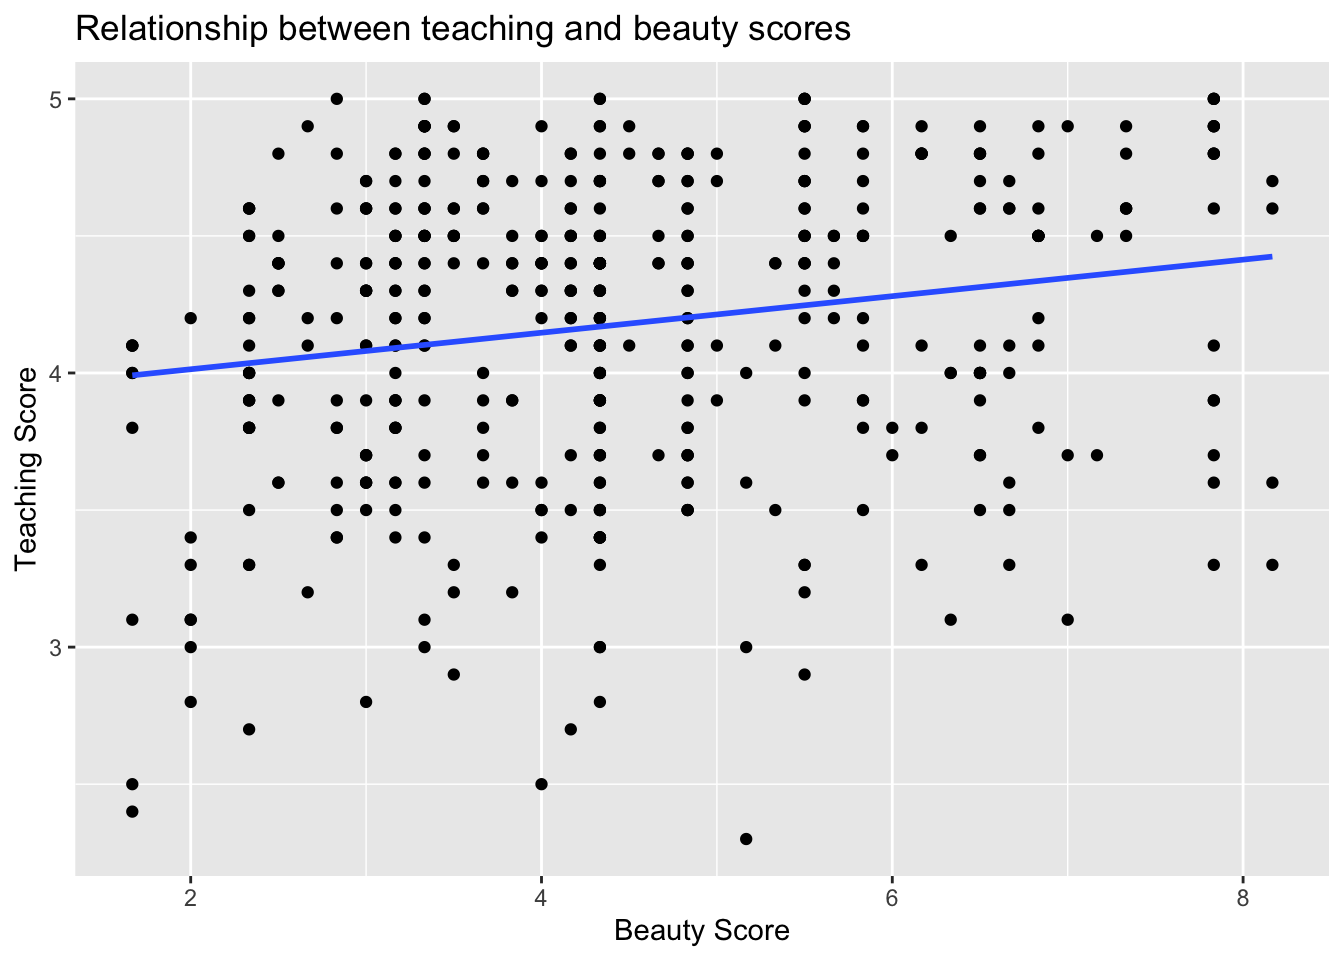
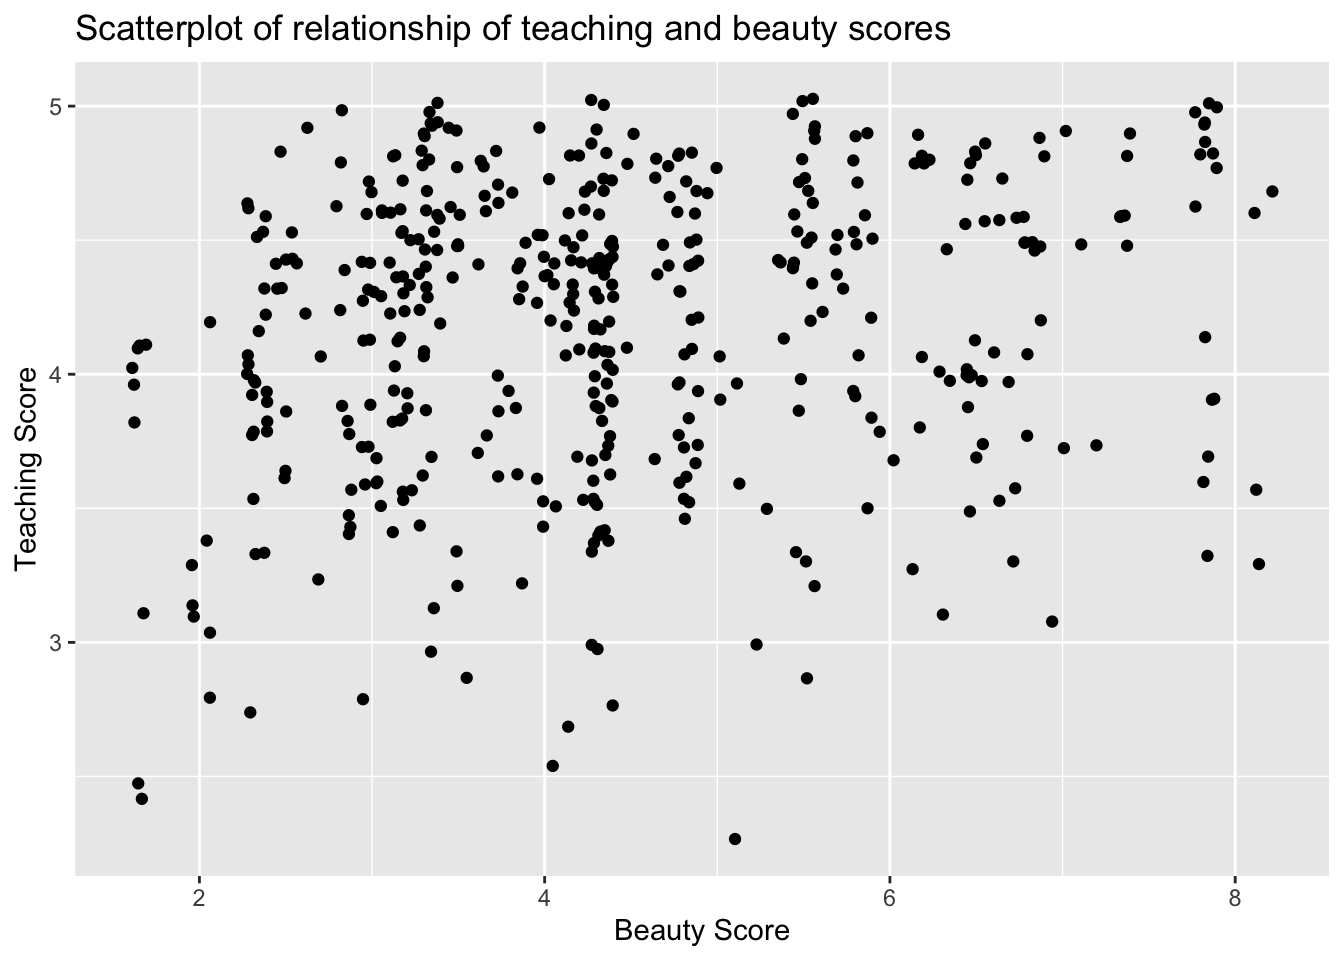
Class exercise on linear regression

diff --git a/content/post/2022-02-28-professor-evaluations/index.html b/content/post/2022-02-28-professor-evaluations/index.html
@@ -49,11 +49,11 @@ library(gapminder)</code></pre>
 <pre><code>## # A tibble: 5 × 4
 ##      ID score bty_avg   age
 ##   &lt;int&gt; &lt;dbl&gt;   &lt;dbl&gt; &lt;int&gt;
-## 1   297   4.1    6.17    42
-## 2   337   2.5    1.67    60
-## 3   408   4.2    2.83    57
-## 4   343   4.6    3.5     43
-## 5   411   4.6    6.67    47</code></pre>
+## 1   346   4.4    3.5     43
+## 2   406   5      2.83    57
+## 3   451   4.4    4.33    60
+## 4   147   4.4    4.83    52
+## 5    80   3.3    5.5     37</code></pre>
 </div>
 <div id="mean-and-median-of-bty-and-score" class="section level2">
 <h2>Mean and Median of BTY and Score</h2>
@@ -183,22 +183,30 @@ library(gapminder)</code></pre>
 ##         &lt;dbl&gt;
 ## 1       0.187</code></pre>
 </div>
-<div id="data-visualization" class="section level2">
-<h2>Data Visualization</h2>
+<div id="scatter-plot-score-vs.-bty_score" class="section level2">
+<h2>Scatter Plot: Score Vs. BTY_Score</h2>
 <pre class="r"><code>ggplot(evals_ch5, aes(x = bty_avg, y = score)) +
   geom_point() +
   labs(x = &quot;Beauty Score&quot;, 
        y = &quot;Teaching Score&quot;,
        title = &quot;Scatterplot of relationship of teaching and beauty scores&quot;)</code></pre>
 <p><img src="{{< blogdown/postref >}}index_files/figure-html/unnamed-chunk-9-1.png" width="672" />
-## Adding the line of best fit</p>
+## Plot with jitter</p>
+<pre class="r"><code>ggplot(evals_ch5, aes(x = bty_avg, y = score)) +
+  geom_jitter() +
+  labs(x = &quot;Beauty Score&quot;, y = &quot;Teaching Score&quot;,
+       title = &quot;Scatterplot of relationship of teaching and beauty scores&quot;)</code></pre>
+<p><img src="{{< blogdown/postref >}}index_files/figure-html/unnamed-chunk-10-1.png" width="672" /></p>
+</div>
+<div id="linear-regression-line-on-the-scatter-plot" class="section level2">
+<h2>Linear Regression Line on the Scatter Plot</h2>
 <pre class="r"><code>ggplot(evals_ch5, aes(x = bty_avg, y = score)) +
   geom_point() +
   labs(x = &quot;Beauty Score&quot;, y = &quot;Teaching Score&quot;,
        title = &quot;Relationship between teaching and beauty scores&quot;) +  
   geom_smooth(method = &quot;lm&quot;, se = FALSE)</code></pre>
 <pre><code>## `geom_smooth()` using formula &#39;y ~ x&#39;</code></pre>
-<p><img src="{{< blogdown/postref >}}index_files/figure-html/unnamed-chunk-10-1.png" width="672" />
+<p><img src="{{< blogdown/postref >}}index_files/figure-html/unnamed-chunk-11-1.png" width="672" />
 ## Looking at Linear Regression Table</p>
 <pre class="r"><code># Fit regression model:
 score_model &lt;- lm(score ~ bty_avg, data = evals_ch5)
@@ -247,13 +255,13 @@ glimpse(gapminder2007)</code></pre>
 <h2>Selecting samples from gapminder</h2>
 <pre class="r"><code>gapminder2007 %&gt;% sample_n(size = 5)</code></pre>
 <pre><code>## # A tibble: 5 × 4
-##   country             lifeExp continent gdpPercap
-##   &lt;fct&gt;                 &lt;dbl&gt; &lt;fct&gt;         &lt;dbl&gt;
-## 1 New Zealand            80.2 Oceania      25185.
-## 2 Taiwan                 78.4 Asia         28718.
-## 3 Czech Republic         76.5 Europe       22833.
-## 4 Trinidad and Tobago    69.8 Americas     18009.
-## 5 Afghanistan            43.8 Asia           975.</code></pre>
+##   country     lifeExp continent gdpPercap
+##   &lt;fct&gt;         &lt;dbl&gt; &lt;fct&gt;         &lt;dbl&gt;
+## 1 Senegal        63.1 Africa        1712.
+## 2 Mali           54.5 Africa        1043.
+## 3 Angola         42.7 Africa        4797.
+## 4 Switzerland    81.7 Europe       37506.
+## 5 Vietnam        74.2 Asia          2442.</code></pre>
 </div>
 <div id="using-the-skim-function-to-explore-gapminder" class="section level2">
 <h2>Using the skim function to explore gapminder</h2>
@@ -261,7 +269,7 @@ glimpse(gapminder2007)</code></pre>
   select(lifeExp, continent) %&gt;%
   skim()</code></pre>
 <table>
-<caption><span id="tab:unnamed-chunk-15">Table 2: </span>Data summary</caption>
+<caption><span id="tab:unnamed-chunk-16">Table 2: </span>Data summary</caption>
 <tbody>
 <tr class="odd">
 <td align="left">Name</td>
@@ -385,20 +393,20 @@ glimpse(gapminder2007)</code></pre>
   geom_histogram(binwidth = 5, color = &quot;white&quot;) +
   labs(x = &quot;Life expectancy&quot;, y = &quot;Number of countries&quot;,
        title = &quot;Histogram of distribution of worldwide life expectancies&quot;)</code></pre>
-<p><img src="{{< blogdown/postref >}}index_files/figure-html/unnamed-chunk-16-1.png" width="672" /></p>
+<p><img src="{{< blogdown/postref >}}index_files/figure-html/unnamed-chunk-17-1.png" width="672" /></p>
 <pre class="r"><code>ggplot(gapminder2007, aes(x = lifeExp)) +
   geom_histogram(binwidth = 5, color = &quot;white&quot;) +
   labs(x = &quot;Life expectancy&quot;, 
        y = &quot;Number of countries&quot;,
        title = &quot;Histogram of distribution of worldwide life expectancies&quot;) +
   facet_wrap(~ continent, nrow = 2)</code></pre>
-<p><img src="{{< blogdown/postref >}}index_files/figure-html/unnamed-chunk-17-1.png" width="672" />
+<p><img src="{{< blogdown/postref >}}index_files/figure-html/unnamed-chunk-18-1.png" width="672" />
 ## Box plot of the data</p>
 <pre class="r"><code>ggplot(gapminder2007, aes(x = continent, y = lifeExp)) +
   geom_boxplot() +
   labs(x = &quot;Continent&quot;, y = &quot;Life expectancy&quot;,
        title = &quot;Life expectancy by continent&quot;)</code></pre>
-<p><img src="{{< blogdown/postref >}}index_files/figure-html/unnamed-chunk-18-1.png" width="672" /></p>
+<p><img src="{{< blogdown/postref >}}index_files/figure-html/unnamed-chunk-19-1.png" width="672" /></p>
 </div>
 <div id="computing-the-mean-and-median-of-the-lifeexp" class="section level2">
 <h2>Computing the mean and median of the lifeExp</h2>
